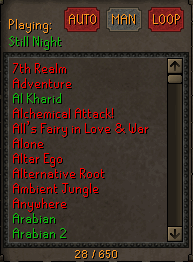
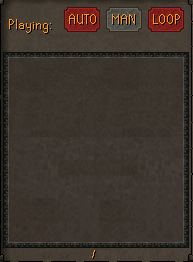
Added temp text to panel

diff --git a/src/ui/music.js b/src/ui/music.js
@@ -1,4 +1,4 @@
-import { CONSTANTS } from "../constants/constants.js";
+import { CONSTANTS, FONTS } from "../constants/constants.js";
 import { ScrollWindow } from "./scroll-window.js";
 import { characterData } from "../cookie-io.js";
 import { prettyPrintCamelCase } from "../utilities.js";
@@ -15,15 +15,33 @@ export class MusicPanel {
         // Add scroll window
         this.scrollWindow = new ScrollWindow({
             name: "music",
-            x: 536,
+            x: 527,
             y: 262,
-            width: 175,
+            width: 185,
             height: 186,
             numColumns: 1,
-            padding: 10,
+            padding: 5,
         });
         dashboard.scene.add(this.scrollWindow.name, this.scrollWindow, true);
         this.scrollWindow.refresh();
+
+        // Add song names to scroll window
+        const songNames = [
+            "Barbarianism",
+            "Expanse",
+            "Harmony",
+            "Newbie Melody",
+            "Scape Main",
+            "Still Night",
+            "The Trade Parade",
+        ];
+        const songTexts = songNames.map((song) =>
+            this.scrollWindow.add
+                .text(0, 0, song, FONTS.HOTBAR)
+                .setInteractive()
+                .on("pointerup", () => console.log(song))
+        );
+        this.scrollWindow.addObjects(songTexts);
 
         // Add button / panel
         this.panel = dashboard.add
